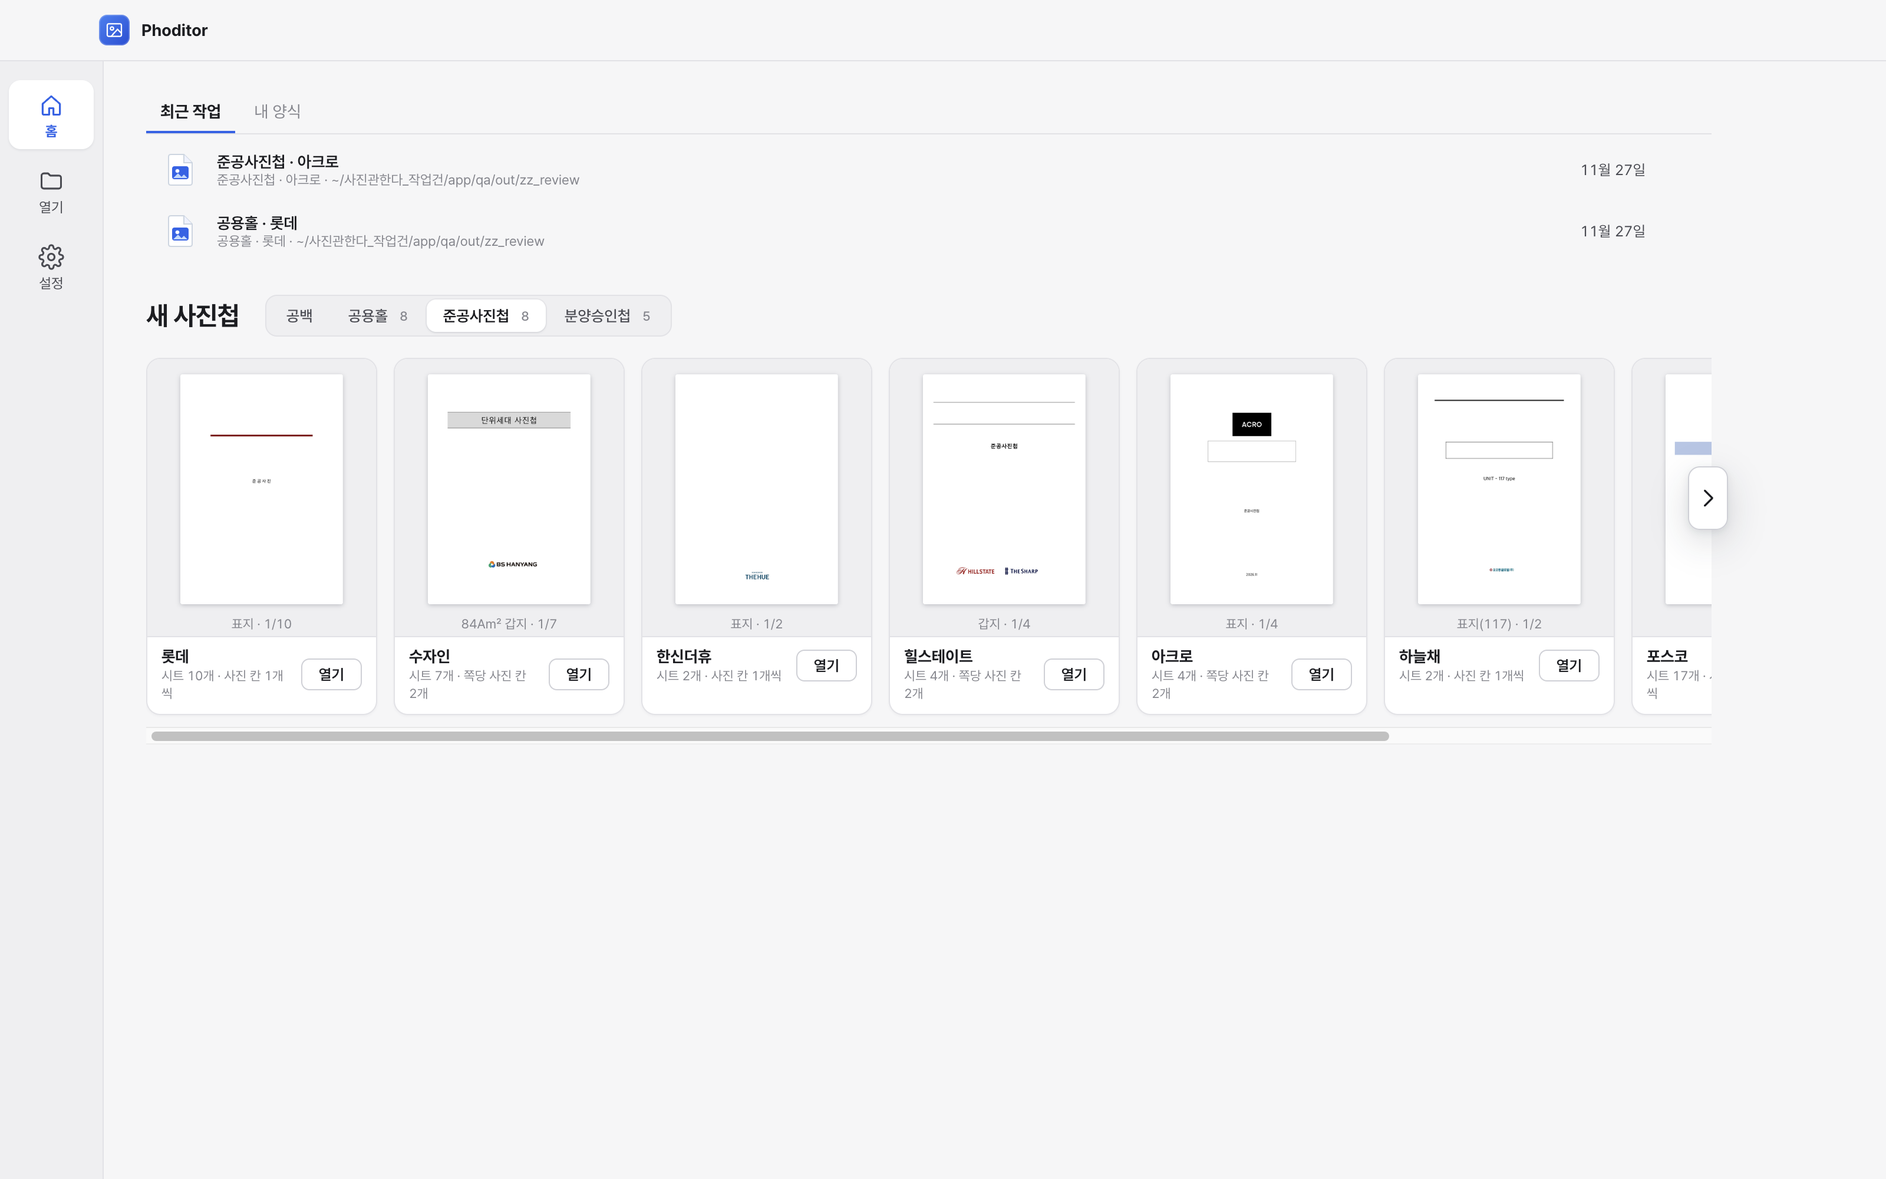
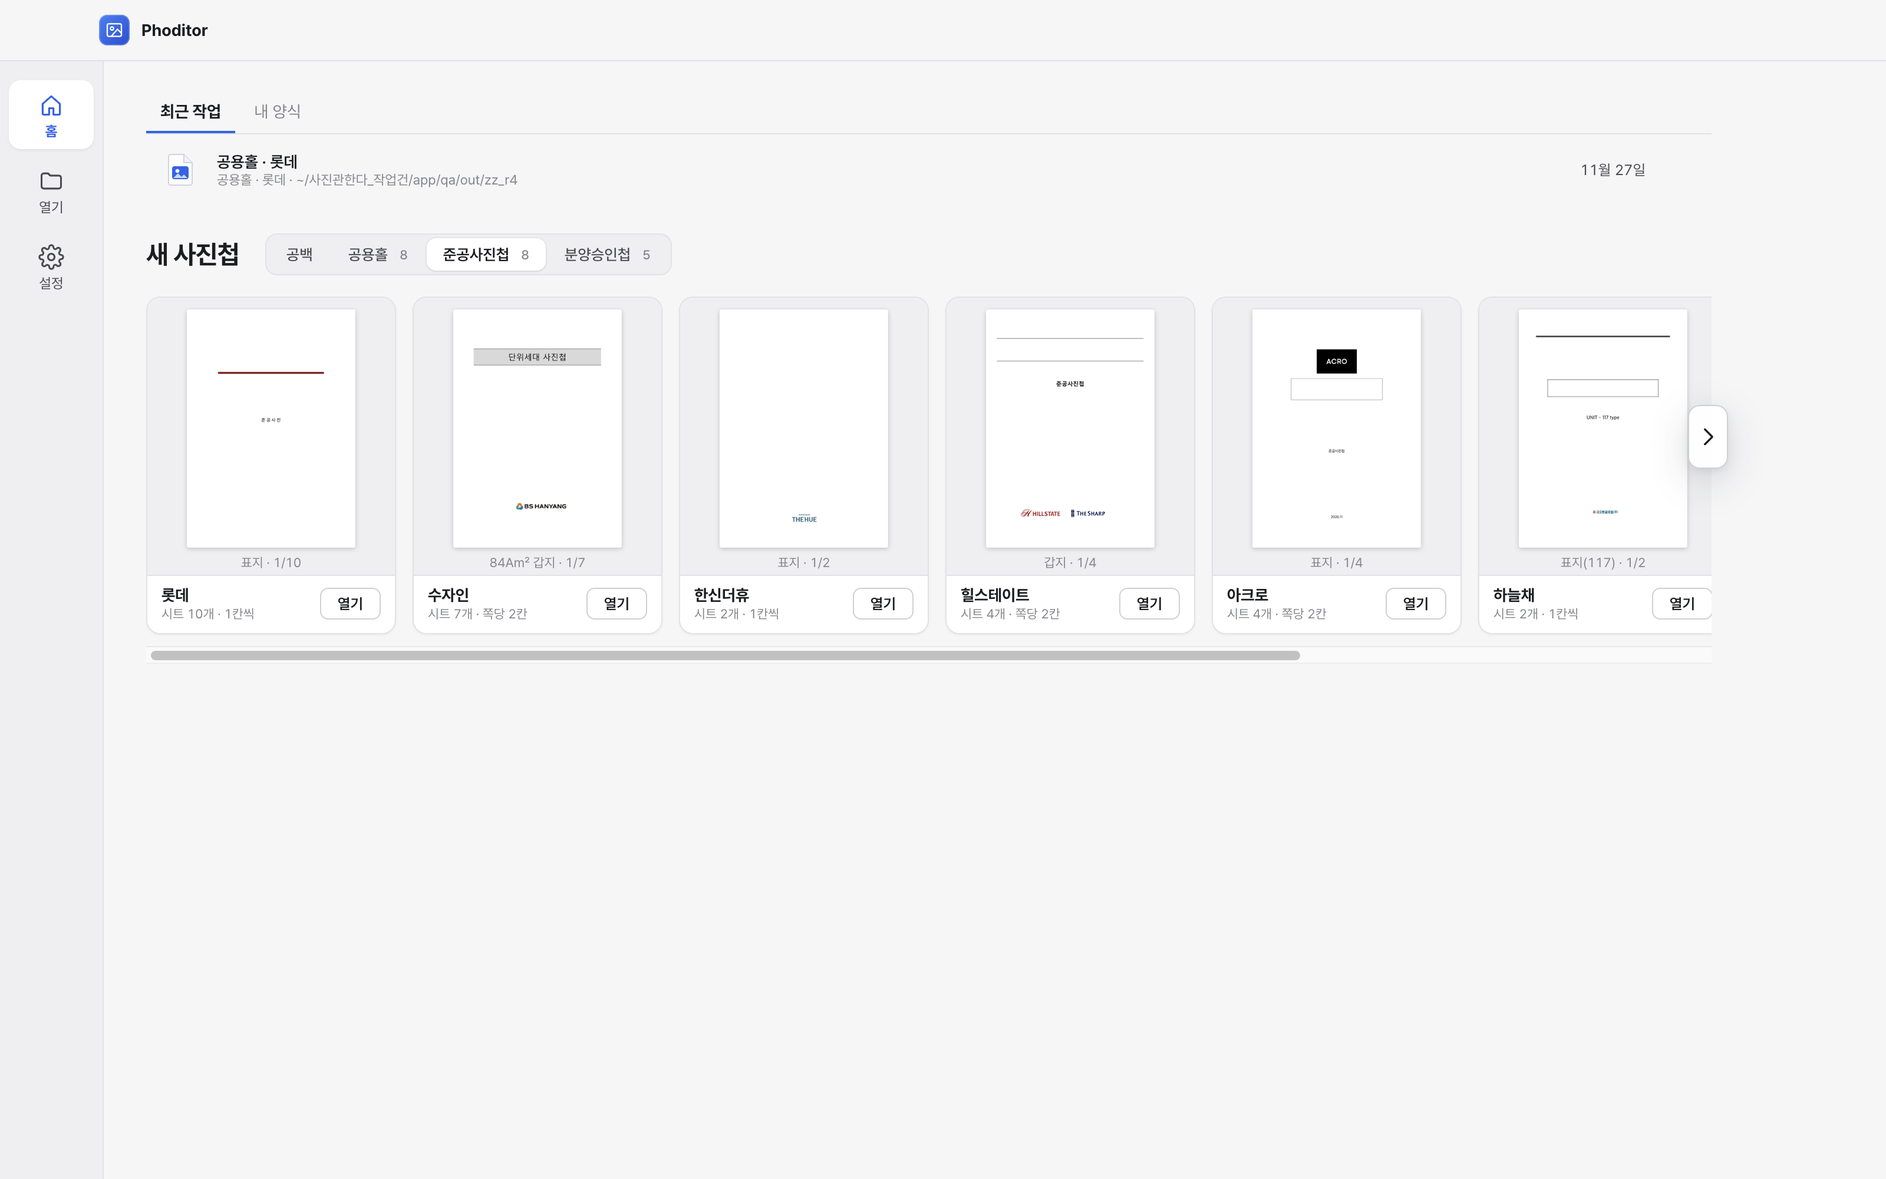
9.3 R4 마무리: 카드 메타 한 줄, 도움말 ? 단추 상시(입구 1곳), PDF 배지, 시트 탭 끝 페이드·[+] 고정, 도움말 끝 페이드
- 카드 메타 "시트 N개 · 1칸씩 / 쪽당 2칸", 한 줄 고정(줄바꿈·말줄임 없음), 카드 폭 196→212px, 높이 모두 같음
- 상단 바 오른쪽 끝(리본 접기 옆)에 ? 도움말 단추, 리본 [보기]의 도움말 단추 제거, ? 키는 그대로
- 좁은 창(아이콘만 보일 때) PDF 단추에 "PDF" 배지(브랜드 블루) — 내 양식과 구분
- 시트 탭이 넘치면 끝 페이드(마스크), [+ 시트 추가]는 탭 줄 밖에 고정
- 도움말 본문: 아래 여백 + 끝이 아닐 때만 아래 페이드
- 09_audit·12_start에 R4 확인 11건 추가, 재평가 캡처 4장 갱신

diff --git a/index.html b/index.html
@@ -296,6 +296,10 @@
     /* 상태 막대 + 시트 탭 */
     .statusbar { height: var(--status-h); flex: none; display: flex; align-items: stretch; background: var(--chrome); border-top: 1px solid var(--line); }
     .sheet-tabs-bar { flex: 1; display: flex; align-items: stretch; gap: 0; overflow-x: auto; min-width: 0; padding-left: 8px; }
+    .sheet-tabs-bar.fade-r { -webkit-mask-image: linear-gradient(to right, #000 calc(100% - 48px), transparent); mask-image: linear-gradient(to right, #000 calc(100% - 48px), transparent); }
+    .sheet-tabs-bar.fade-l.fade-r { -webkit-mask-image: linear-gradient(to right, transparent, #000 32px, #000 calc(100% - 48px), transparent); mask-image: linear-gradient(to right, transparent, #000 32px, #000 calc(100% - 48px), transparent); }
+    .sheet-tabs-bar.fade-l:not(.fade-r) { -webkit-mask-image: linear-gradient(to right, transparent, #000 32px); mask-image: linear-gradient(to right, transparent, #000 32px); }
+    .sheet-add-slot { flex: none; display: flex; align-items: stretch; border-left: 1px solid var(--line); }
     .sheet-tab { display: flex; align-items: center; gap: 6px; padding: 0 12px; font-size: 12.5px; color: var(--ink-2); cursor: pointer; border-right: 1px solid var(--line); white-space: nowrap; user-select: none; position: relative; }
     .sheet-tab:hover { background: var(--chrome-2); }
     .sheet-tab.active { background: #fff; color: var(--ink); font-weight: 600; box-shadow: inset 0 2px 0 var(--accent); }
@@ -342,6 +346,7 @@
       .tb-btn { font-size: 0; min-width: 36px; padding: 7px 8px; gap: 0; }
       .tb-btn svg.i { width: 18px; height: 18px; }
       #saveBtn, #saveMyTplTopBtn, #pdfBtn, #printBtn { font-size: 0; gap: 0; }
+      #pdfBtn .pdf-badge { display: block; } /* 글자가 숨는 좁은 창에서만: 내 양식과 구분 */
       .tb-sep { margin: 0 2px; }
       .rb-panel .tb-sep { margin: 0 6px; }
     }
@@ -408,6 +413,8 @@
     .ribbon-tabs.rb-closed button.on::after { display: none; }
     .ribbon-tabs button.ctx-on:not(.on)::before { content: ''; position: absolute; top: 4px; right: 4px; width: 6px; height: 6px; border-radius: 50%; background: var(--accent); }
     .file-btn { gap: 6px; }
+    .pdf-ico { position: relative; display: inline-flex; }
+    .pdf-badge { display: none; position: absolute; right: -7px; bottom: -4px; font-size: 7.5px; line-height: 1; font-weight: 800; letter-spacing: .02em; padding: 1.5px 2.5px; border-radius: 3px; background: var(--accent); color: #fff; }
     .steps { margin: 6px 0 0; padding-left: 20px; font-size: 13px; line-height: 1.7; color: var(--ink); }
     .ribbon { flex: none; display: flex; align-items: center; min-height: 54px; padding: 3px 12px; background: #fff; border-bottom: 1px solid var(--line); position: relative; }
     .ribbon.collapsed { min-height: 0; height: 0; padding: 0; overflow: hidden; border-bottom: none; }
@@ -423,7 +430,7 @@
     #fmtFontSel { width: 170px; } #fmtSizeSel { width: 72px; margin-right: 4px; }
     .rb-panel .tb-sep { margin: 0 10px; }
     .rb-hint { font-size: 11.5px; color: var(--ink-muted); margin-left: 10px; white-space: nowrap; }
-    .rb-collapse { flex: none; }
+    .rb-collapse, .help-btn { flex: none; }
     .rb-collapse svg { transition: transform .15s; }
     body.rb-collapsed .rb-collapse svg { transform: rotate(180deg); }
     .app-toolbar .tb-spacer { flex: 1; }
@@ -509,7 +516,7 @@
     .tpl-head .type-btn { padding: 6px 14px; font-size: 13px; }
     .tpl-strip-wrap { position: relative; margin-bottom: 26px; }
     .tpl-strip { display: flex; gap: 14px; overflow-x: auto; scroll-snap-type: x proximity; padding: 4px 2px 10px; }
-    .tpl-strip > .company-card { flex: 0 0 196px; scroll-snap-align: start; }
+    .tpl-strip > .company-card { flex: 0 0 212px; scroll-snap-align: start; }
     .strip-scroll { position: absolute; top: 96px; z-index: 3; width: 34px; height: 54px; padding: 0; justify-content: center; font-size: 24px; border-radius: 10px; background: rgba(255,255,255,.95); box-shadow: var(--shadow-pop); }
     .strip-scroll.prev { left: -14px; } .strip-scroll.next { right: -14px; }
     .strip-scroll[hidden] { display: none; }
@@ -550,7 +557,8 @@
     .set-actions { display: flex; gap: 8px; }
     .sc-help [hidden] { display: none !important; }
     .help-tabs { border-bottom: 1px solid var(--line); margin: -4px 0 8px; }
-    .help-flow { max-height: 56vh; overflow: auto; padding-right: 4px; }
+    .help-flow { max-height: 56vh; overflow: auto; padding-right: 4px; padding-bottom: 28px; }
+    .help-flow.more { -webkit-mask-image: linear-gradient(to bottom, #000 calc(100% - 40px), transparent); mask-image: linear-gradient(to bottom, #000 calc(100% - 40px), transparent); }
     .help-sec h4 { margin: 12px 0 4px; font-size: 13px; color: var(--ink); }
     .help-sec ul { margin: 0; padding-left: 18px; }
     .help-sec li { font-size: 12.5px; line-height: 1.65; color: var(--ink-2); margin: 2px 0; }
@@ -570,7 +578,7 @@
     .company-card .card-art img.cover-thumb { height: auto; width: auto; max-height: calc(var(--art-h) - 34px); max-width: calc(100% - 56px); object-fit: contain; border-radius: 2px; box-shadow: 0 1px 4px rgba(16,24,40,.22); background: #fff; }
     .company-card .card-body { display: flex; align-items: center; gap: 10px; padding: 8px 12px 10px; }
     .company-card .card-text { display: flex; flex-direction: column; gap: 1px; min-width: 0; flex: 1; }
-    .company-card .card-text .company-meta { white-space: normal; display: -webkit-box; -webkit-line-clamp: 2; -webkit-box-orient: vertical; line-height: 1.35; }
+    .company-card .card-text .company-meta { white-space: nowrap; overflow: visible; text-overflow: clip; } /* [9.3 R4] 한 줄 고정(말줄임 없이) */
     .company-card .card-open { flex: none; padding: 5px 14px; font-size: 12.5px; font-weight: 600; }
     .company-card:hover .card-open, .company-card:focus-visible .card-open { border-color: var(--accent); color: var(--accent); }
     .company-card .company-name { font-size: 13.5px; }
@@ -854,9 +862,10 @@
       <input id="siteNameInput" type="text" placeholder="현장명" style="display:none; width: 200px;" />
       <button id="saveBtn" class="ghost file-btn" data-tip="작업 저장 (⌘S)"><svg class="i" viewBox="0 0 24 24"><path d="M5 3h11l3 3v13a2 2 0 01-2 2H5a2 2 0 01-2-2V5a2 2 0 012-2z"/><path d="M7 3v5h8V3M7 21v-7h10v7"/></svg><span>저장</span></button>
       <button id="saveMyTplTopBtn" class="ghost file-btn" data-tip="지금 구성을 내 양식으로 저장(사진 빼고)"><svg class="i" viewBox="0 0 24 24"><path d="M14 3H6v18h12V7z"/><path d="M14 3v4h4"/><path d="M12 10.2l1.2 2.4 2.6.4-1.9 1.8.5 2.6-2.4-1.2-2.4 1.2.5-2.6-1.9-1.8 2.6-.4z"/></svg><span>내 양식</span></button>
-      <button id="pdfBtn" class="ghost file-btn" data-tip="PDF로 내보내기 (⇧⌘E)"><svg class="i" viewBox="0 0 24 24"><path d="M6 3h9l4 4v14H6z"/><path d="M14 3v5h5M9 13h6M9 17h4"/></svg><span>PDF</span></button>
+      <button id="pdfBtn" class="ghost file-btn" data-tip="PDF로 내보내기 (⇧⌘E)"><span class="pdf-ico"><svg class="i" viewBox="0 0 24 24"><path d="M6 3h9l4 4v14H6z"/><path d="M14 3v5h5M9 13h6M9 17h4"/></svg><b class="pdf-badge" aria-hidden="true">PDF</b></span><span>PDF</span></button>
       <button id="printBtn" class="ghost file-btn" data-tip="인쇄 (⌘P) — Excel로 PDF를 만들어 바로 열어요"><svg class="i" viewBox="0 0 24 24"><path d="M7 8V3h10v5"/><rect x="3" y="8" width="18" height="9" rx="2"/><path d="M7 14h10v7H7z"/><path d="M17 11.5h.01"/></svg><span>인쇄</span></button>
       <button id="exportBtn" class="primary"><svg class="i" viewBox="0 0 24 24"><path d="M12 4v11M7.5 10.5L12 15l4.5-4.5"/><path d="M5 19h14"/></svg>엑셀로 내보내기</button>
+      <button id="helpBtn" class="ghost icon-btn help-btn" data-tip="도움말" aria-label="도움말"><svg class="i" viewBox="0 0 24 24" aria-hidden="true"><circle cx="12" cy="12" r="9"/><path d="M9.6 9.3a2.5 2.5 0 014.8.9c0 1.7-2.4 2.2-2.4 3.6"/><path d="M12 17.2h.01"/></svg></button>
       <button id="ribbonCollapseBtn" class="ghost icon-btn rb-collapse" data-tip="리본 접기" aria-expanded="true" aria-controls="ribbon"><svg class="i" viewBox="0 0 24 24"><path d="M6 15l6-6 6 6"/></svg></button>
       <span id="templateStatusBadge" hidden></span>
       <span id="blankStatusBadge" hidden></span>
@@ -883,8 +892,6 @@
         <div class="rb-group"><button id="gridToggleBtn" class="tb-btn" data-tip="화면에만 칸 격자 보이기"><svg class="i" viewBox="0 0 24 24"><rect x="4" y="4" width="16" height="16" rx="1.5"/><path d="M4 10h16M4 15h16M10 4v16M15 4v16"/></svg><span>격자</span></button></div>
         <div class="tb-sep"></div>
         <div class="rb-group"><button id="rbSideBtn" class="tb-btn" data-tip="사진 패널 보이기/접기 (⇧⌘\)"><svg class="i" viewBox="0 0 24 24"><rect x="3" y="4" width="18" height="16" rx="2"/><path d="M9 4v16"/></svg><span>사진 패널</span></button><button id="rbInspBtn" class="tb-btn" data-tip="속성 패널 보이기/접기 (⌘\)"><svg class="i" viewBox="0 0 24 24"><rect x="3" y="4" width="18" height="16" rx="2"/><path d="M15 4v16"/></svg><span>속성 패널</span></button></div>
-        <div class="tb-sep"></div>
-        <div class="rb-group"><button id="rbKeysBtn" class="tb-btn" data-tip="도움말 · 단축키 (?)"><svg class="i" viewBox="0 0 24 24"><rect x="2" y="6" width="20" height="12" rx="2"/><path d="M6 10h.01M10 10h.01M14 10h.01M18 10h.01M7 14h10"/></svg><span>도움말</span></button></div>
       </div>
     </div>
 
@@ -988,6 +995,7 @@
 
     <footer class="statusbar">
       <div id="sheetTabsBar" class="sheet-tabs-bar"></div>
+      <div id="sheetAddSlot" class="sheet-add-slot"></div>
       <div class="status-right">
         <span id="pageCountText"></span>
         <span id="sizeEstimateBadge" class="badge">예상 용량 계산 중</span>

diff --git a/qa/scenarios/09_audit.js b/qa/scenarios/09_audit.js
@@ -152,6 +152,20 @@ try {
   // 9. [9.3 R2] 공간: 리본 중복 제거 · 접힘 표시 · 사진 패널 헤더 · 1280px 패널 접힘 · 경고 띠
   const resizeTo = async (w, h) => { console.log('__QA_RESIZE__:' + JSON.stringify({ w, h })); await waitFor(() => innerWidth === w, 4000); await sleep(700); };
   const fitPct = () => parseInt(($('#zoomLabel').textContent.match(/(\d+)%/) || [])[1] || '0', 10);
+  // [9.3 R4] 도움말 입구 1곳: 상단 바 ? 단추(홈 탭에서도 보임), 리본 [보기]의 도움말 단추 없음
+  await clickEl($('#ribbonTabs [data-tab="home"]'), 200);
+  const hb = $('#helpBtn');
+  check('R4. 홈 탭에서 상단 바 ? 단추가 보임(접기 단추 옆)', !!hb && hb.getBoundingClientRect().width > 0 && hb.nextElementSibling && hb.nextElementSibling.id === 'ribbonCollapseBtn' && !$('#rbKeysBtn'));
+  await shot('a15_home_help_btn');
+  await clickEl(hb, 400);
+  check('R4. ? 단추 → 도움말 창(사용 흐름|단축키)', !!$('.dyn-modal.sc-help') && /사용 흐름/.test($('.dyn-modal.sc-help').textContent));
+  const hf = $('#helpFlow');
+  check('R4. 도움말: 끝이 아니면 아래 페이드', hf.classList.contains('more'));
+  hf.scrollTop = hf.scrollHeight; hf.dispatchEvent(new Event('scroll')); await sleep(200);
+  const lastLi = [...hf.querySelectorAll('li')].pop();
+  check('R4. 도움말: 끝까지 내리면 페이드 없음·마지막 문장이 다 보임', !hf.classList.contains('more') && lastLi.getBoundingClientRect().bottom <= hf.getBoundingClientRect().bottom - 8, `${Math.round(lastLi.getBoundingClientRect().bottom)} / ${Math.round(hf.getBoundingClientRect().bottom)}`);
+  await shot('a16_help_end');
+  { const m = $('.dyn-modal.sc-help'); (m.closest('.modal-backdrop') || m).remove(); }
   check('9. 리본에 줌·사진 칸 높이·배치·MYBOX 설정 단추 없음(푸터·속성 패널·사진 패널에만)', !$('#rbZoomOutBtn') && !$('#rbZoomInBtn') && !$('#rbZoomFitBtn') && !$('#rbScaleUpBtn') && !$('#rbLayoutBtn') && !$('#openSettingsBtn') && !!$('#zoomInBtn') && !!$('#myboxSettingsBtn'));
   check('9. 리본 그룹 캡션 없이 높이 그대로(54px 이하)', $('#ribbon').getBoundingClientRect().height <= 55 && !$('.rb-panel .rb-caption'), $('#ribbon').getBoundingClientRect().height);
   await clickEl($('#ribbonCollapseBtn'), 300);
@@ -206,6 +220,15 @@ try {
   last.scrollIntoView({ inline: 'nearest' }); await sleep(200);
   await clickEl(last, 700);
   check('9. 포스코 1280px: 마지막 시트 탭까지 가서 열림', state.activeSheetIdx === 16, state.activeSheetIdx);
+  // [9.3 R4] 시트 탭 끝 처리: [+]는 스크롤 밖 고정, 넘치면 끝 페이드
+  const addB = $('#sheetAddSlot .sheet-add-btn');
+  check('R4. 시트 추가 [+]는 탭 줄 밖에 고정(항상 보임)', !!addB && !addB.closest('#sheetTabsBar') && addB.getBoundingClientRect().right <= $('.status-right').getBoundingClientRect().left + 1 && addB.getBoundingClientRect().width > 0);
+  el.sheetTabsBar.scrollLeft = 0; el.sheetTabsBar.dispatchEvent(new Event('scroll')); await sleep(150);
+  check('R4. 탭이 넘치면 오른쪽 끝 페이드', el.sheetTabsBar.classList.contains('fade-r') && /gradient/.test(getComputedStyle(el.sheetTabsBar).webkitMaskImage || getComputedStyle(el.sheetTabsBar).maskImage || ''), el.sheetTabsBar.className);
+  // [9.3 R4] 1280px 상단 바: PDF 단추에 PDF 배지(내 양식과 구분), 도움말 ? 단추 상시
+  const badge = $('#pdfBtn .pdf-badge');
+  check('R4. 1280px: PDF 단추에 "PDF" 배지(브랜드 블루), 내 양식 단추엔 없음', !!badge && getComputedStyle(badge).display !== 'none' && badge.textContent === 'PDF' && getComputedStyle(badge).backgroundColor === 'rgb(37, 99, 235)' && !$('#saveMyTplTopBtn .pdf-badge'), badge && getComputedStyle(badge).backgroundColor);
+  await shot('a14_topbar_1280');
   await clickEl($$('#sheetTabsBar .sheet-tab')[0], 600);
   await shot('a13_posco_1280');
   await resizeTo(wasW, wasH);

diff --git a/qa/scenarios/12_start.js b/qa/scenarios/12_start.js
@@ -26,7 +26,16 @@ try {
   check('3. 카드마다 [열기] 단추', cards.length > 0 && cards.every((c) => c.querySelector('.card-open') && c.querySelector('.card-open').textContent === '열기'));
   check('3. 카드 그림 배경 chrome-2(#EFEFF1)', getComputedStyle(cards[0].querySelector('.card-art')).backgroundColor === 'rgb(239, 239, 241)', getComputedStyle(cards[0].querySelector('.card-art')).backgroundColor);
   const metas = cards.map((c) => c.querySelector('.company-meta').textContent).join(' | ');
-  check('3. 카드 설명에 블록·항목 같은 내부 말 없음, 잘리지 않음', !/블록|항목/.test(metas) && /사진 칸/.test(metas) && cards.every((c) => { const m = c.querySelector('.company-meta'); return m.scrollHeight <= m.clientHeight + 1; }), metas);
+  check('3. 카드 설명에 블록·항목 같은 내부 말 없음', !/블록|항목/.test(metas) && /칸/.test(metas), metas);
+  // [9.3 R4] 메타 한 줄 고정: 줄바꿈·말줄임 없음, 카드 높이 모두 같음(모든 종류 탭에서)
+  for (const ty of $$('#typeTabs button').map((b) => b.firstChild.textContent.trim())) {
+    await clickEl($$('#typeTabs button').find((b) => b.firstChild.textContent.trim() === ty), 300);
+    const cs = $$('#companyGrid .company-card');
+    const one = cs.every((c) => { const m = c.querySelector('.company-meta'); const lh = parseFloat(getComputedStyle(m).lineHeight) || 16; return m.getBoundingClientRect().height <= lh + 2 && m.scrollWidth <= m.clientWidth + 1 && getComputedStyle(m).whiteSpace === 'nowrap'; });
+    const hs = [...new Set(cs.map((c) => Math.round(c.getBoundingClientRect().height)))];
+    check(`R4. [${ty}] 카드 메타 한 줄(잘림 없음)·카드 높이 같음`, one && hs.length === 1, `${cs.map((c) => c.querySelector('.company-meta').textContent).join(' | ')} / 높이 ${hs.join(',')}`);
+  }
+  await clickEl($$('#typeTabs button').find((b) => b.firstChild.textContent.trim() === '준공사진첩'), 400);
   // 그림 누르면 넘기기(열리지 않음), [열기]는 연다
   const art = cards[0].querySelector('.card-art');
   const r = art.getBoundingClientRect();

diff --git a/renderer/02-catalog-editor.js b/renderer/02-catalog-editor.js
@@ -51,7 +51,7 @@ function renderCatalog() {
         item,
         name: comp,
         color: COMPANY_COLORS[comp] || '#64748B',
-        meta: `시트 ${item.sheetCount}개 · ${item.addUnit === 'page' ? '쪽당 사진 칸 2개' : '사진 칸 1개씩'}`,
+        meta: `시트 ${item.sheetCount}개 · ${item.addUnit === 'page' ? '쪽당 2칸' : '1칸씩'}`,
         onOpen: () => openTemplate(item.id)
       }));
     }
@@ -291,6 +291,14 @@ function openSaveMyTemplate() {
   setTimeout(() => { nameIn.focus(); nameIn.select(); }, 0);
 }
 
+// [9.3 R4] 시트 탭이 넘치면 오른쪽(왼쪽) 끝을 흐리게: 더 있다는 표시
+function updateSheetTabsFade() {
+  const b = el.sheetTabsBar;
+  if (!b) return;
+  b.classList.toggle('fade-r', b.scrollLeft + b.clientWidth < b.scrollWidth - 2);
+  b.classList.toggle('fade-l', b.scrollLeft > 2);
+}
+
 // --- 설정 화면 ---
 function showStartPage(page) {
   for (const b of document.querySelectorAll('.start-nav .nav-btn[data-page]')) b.classList.toggle('active', b.dataset.page === page);
@@ -521,7 +529,7 @@ function renderSheetTabs() {
   addBtn.setAttribute('aria-label', '새 블록 시트 추가');
   addBtn.title = '새 블록 시트 추가';
   addBtn.addEventListener('click', openAddSheetModal);
-  el.sheetTabsBar.appendChild(addBtn);
+  { const slot = document.getElementById('sheetAddSlot'); if (slot) slot.replaceChildren(addBtn); else el.sheetTabsBar.appendChild(addBtn); } updateSheetTabsFade();
 }
 
 // [시트 이름 바꾸기 2026-11-25] 탭 이름은 현장마다 다르다(공용홀1층·가구공사 …).

diff --git a/renderer/99-wiring.js b/renderer/99-wiring.js
@@ -84,6 +84,8 @@ el.autoFillBtn.addEventListener('click', openAutoFill);
 el.pasteTableBtn.addEventListener('click', openPasteTable);
 // 쪽 이동 막대: 보이는 쪽 표시
 el.gridViewport.addEventListener('scroll', () => updateRailActive(), { passive: true });
+el.sheetTabsBar.addEventListener('scroll', updateSheetTabsFade, { passive: true });
+window.addEventListener('resize', updateSheetTabsFade);
 el.saveBtn.addEventListener('click', () => saveProject(false));
 el.pdfBtn.addEventListener('click', () => openExportDialog('pdf'));
 el.printBtn.addEventListener('click', () => handlePrint());
@@ -341,7 +343,10 @@ function openShortcutHelp() {
   void panes;
   const back = openModal('도움말', [tabs, flow, list], [h('button', { class: 'primary', onclick: () => back.remove() }, '닫기')], 680);
   back.classList.add('sc-help');
+  const moreFade = () => flow.classList.toggle('more', flow.scrollTop + flow.clientHeight < flow.scrollHeight - 4);
+  flow.addEventListener('scroll', moreFade, { passive: true });
   pick('flow');
+  requestAnimationFrame(moreFade);
 }
 // 시작 화면에서도 ?로 같은 도움말
 document.addEventListener('keydown', (e) => {

diff --git a/renderer/12-ribbon.js b/renderer/12-ribbon.js
@@ -193,5 +193,5 @@ $id('fmtResetBtn').addEventListener('click', () => {
 
 $id('rbSideBtn').addEventListener('click', () => { setSidebarCollapsed(!el.sidebar.classList.contains('collapsed')); updateRibbon(); });
 $id('rbInspBtn').addEventListener('click', () => { setInspectorCollapsed(!el.inspector.classList.contains('collapsed')); updateRibbon(); });
-$id('rbKeysBtn').addEventListener('click', openShortcutHelp);
+$id('helpBtn').addEventListener('click', openShortcutHelp); // [9.3 R4] 도움말 입구는 상단 바 ? 단추 하나(+ ? 키)
 $id('saveMyTplTopBtn').addEventListener('click', openSaveMyTemplate);
